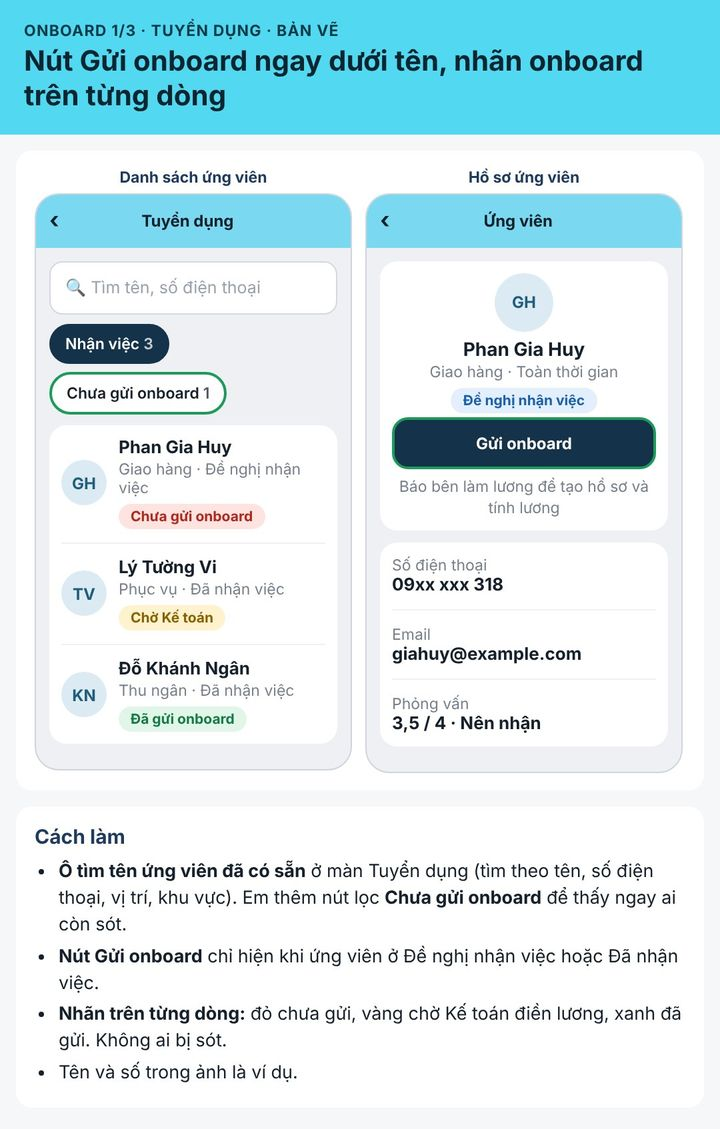
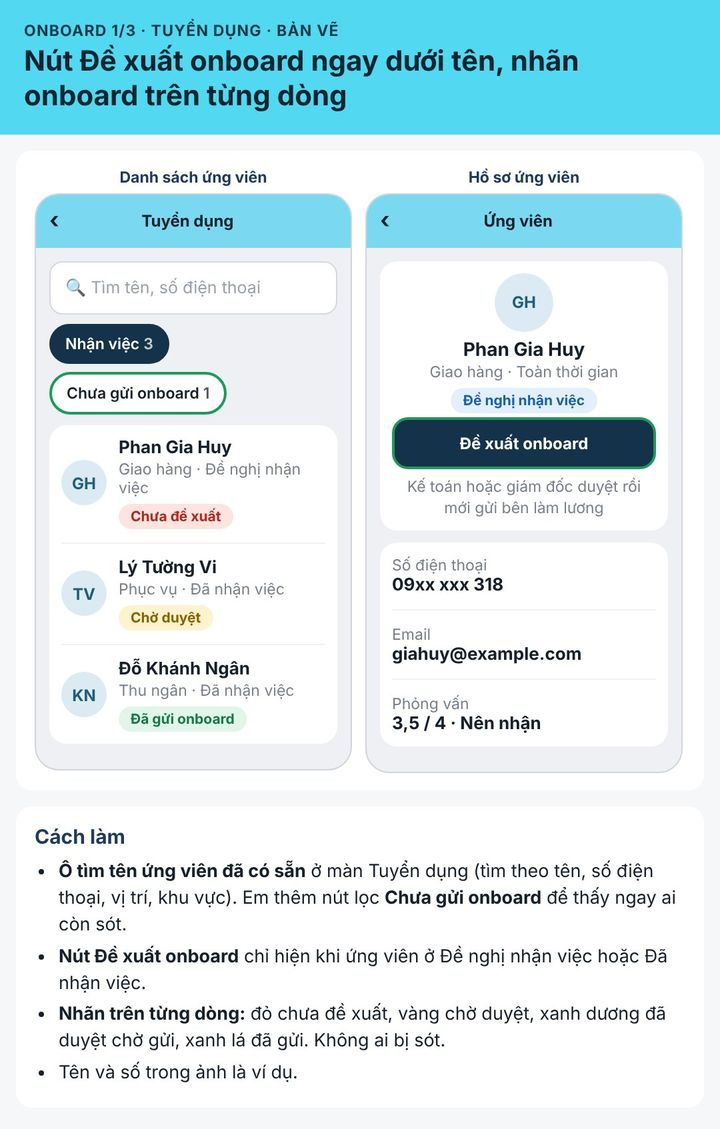
Nhân sự: onboard theo luồng đề xuất, duyệt, gửi bên làm lương; trần thưởng phụ trách 1,5 triệu
Claude-Session: https://claude.ai/code/session_0111WozM7s5LLQwkD9ysUPvE

diff --git a/docs/de-xuat-chinh-sach-hoa-hong-11-2026.md b/docs/de-xuat-chinh-sach-hoa-hong-11-2026.md
@@ -12,7 +12,8 @@ Repo này công khai nên tài liệu không ghi tên người, không ghi lươ
 - **Anh đã chốt:** mốc 600 triệu cho Marketing, trần 6 triệu/người/tháng, thưởng mùa vụ riêng, ngày ghi sổ hoá đơn, giờ công theo bảng chấm công bên làm lương (17/11). Ngày 27/11 anh đồng ý 4 điểm mới: quyết toán theo quý, tại bàn tính 10% phần gọi thêm đã trả tiền, mức chuẩn cho bộ phận hỗ trợ, thẻ "D1" trên Pancake.
 - **Anh chốt tối 28/11:** foodapp giảm trơn (Q6); luật làm không trọn quý (Q7). Người phụ trách và nhóm thưởng anh tự chọn trong Cài đặt nhân sự.
 - **Anh chốt thêm 28/11:** người phụ trách quầy và bếp có thưởng phụ trách, tự cài (Q8, mục 3.10).
-- **Còn chờ anh:** đặt con số thưởng phụ trách khi có màn Cài đặt.
+- **Anh định hướng 28/11:** thưởng phụ trách không quá khoảng 1,5 triệu một tháng.
+- **Còn chờ anh:** đặt con số cụ thể cho từng điểm và bếp khi có màn Cài đặt.
 
 ## 2. Bốn nguyên tắc
 
@@ -176,6 +177,7 @@ Người phụ trách quầy của từng điểm và người phụ trách bế
 - Ví dụ hệ số 1,5: quỹ 4 triệu, 5 người cùng 160 giờ. Không hệ số mỗi người 800.000 đ. Có hệ số: người phụ trách tính 240 giờ, nhận 1.091.000 đ; bốn người còn lại mỗi người 727.000 đ.
 - Mức cố định chỉ chi khi tháng đó bộ phận có quỹ lớn hơn 0 và người phụ trách đạt xếp loại từ Đạt, để không thành lương cứng trá hình. Điều kiện này cũng là ô cài đặt (bật mặc định).
 - Thưởng phụ trách là khoản thường: cộng vào rồi mới chặn trần 6 triệu (3.7).
+- Anh định hướng tối 28/11: mức khoảng 1,5 triệu đồng một tháng trở lại. Ô nhập vì vậy chặn trần 1.500.000 đ một người một tháng cho kiểu Mức cố định; với kiểu Hệ số, phần nhận thêm so với chia đều cũng không vượt trần này. Trần là ô cài đặt, chỉ giám đốc sửa.
 - Đổi kiểu hoặc mức áp từ kỳ sau. Đổi người phụ trách giữa tháng thì tính theo số ngày giữ vai.
 
 ## 4. Số liệu nền (làm tròn)
